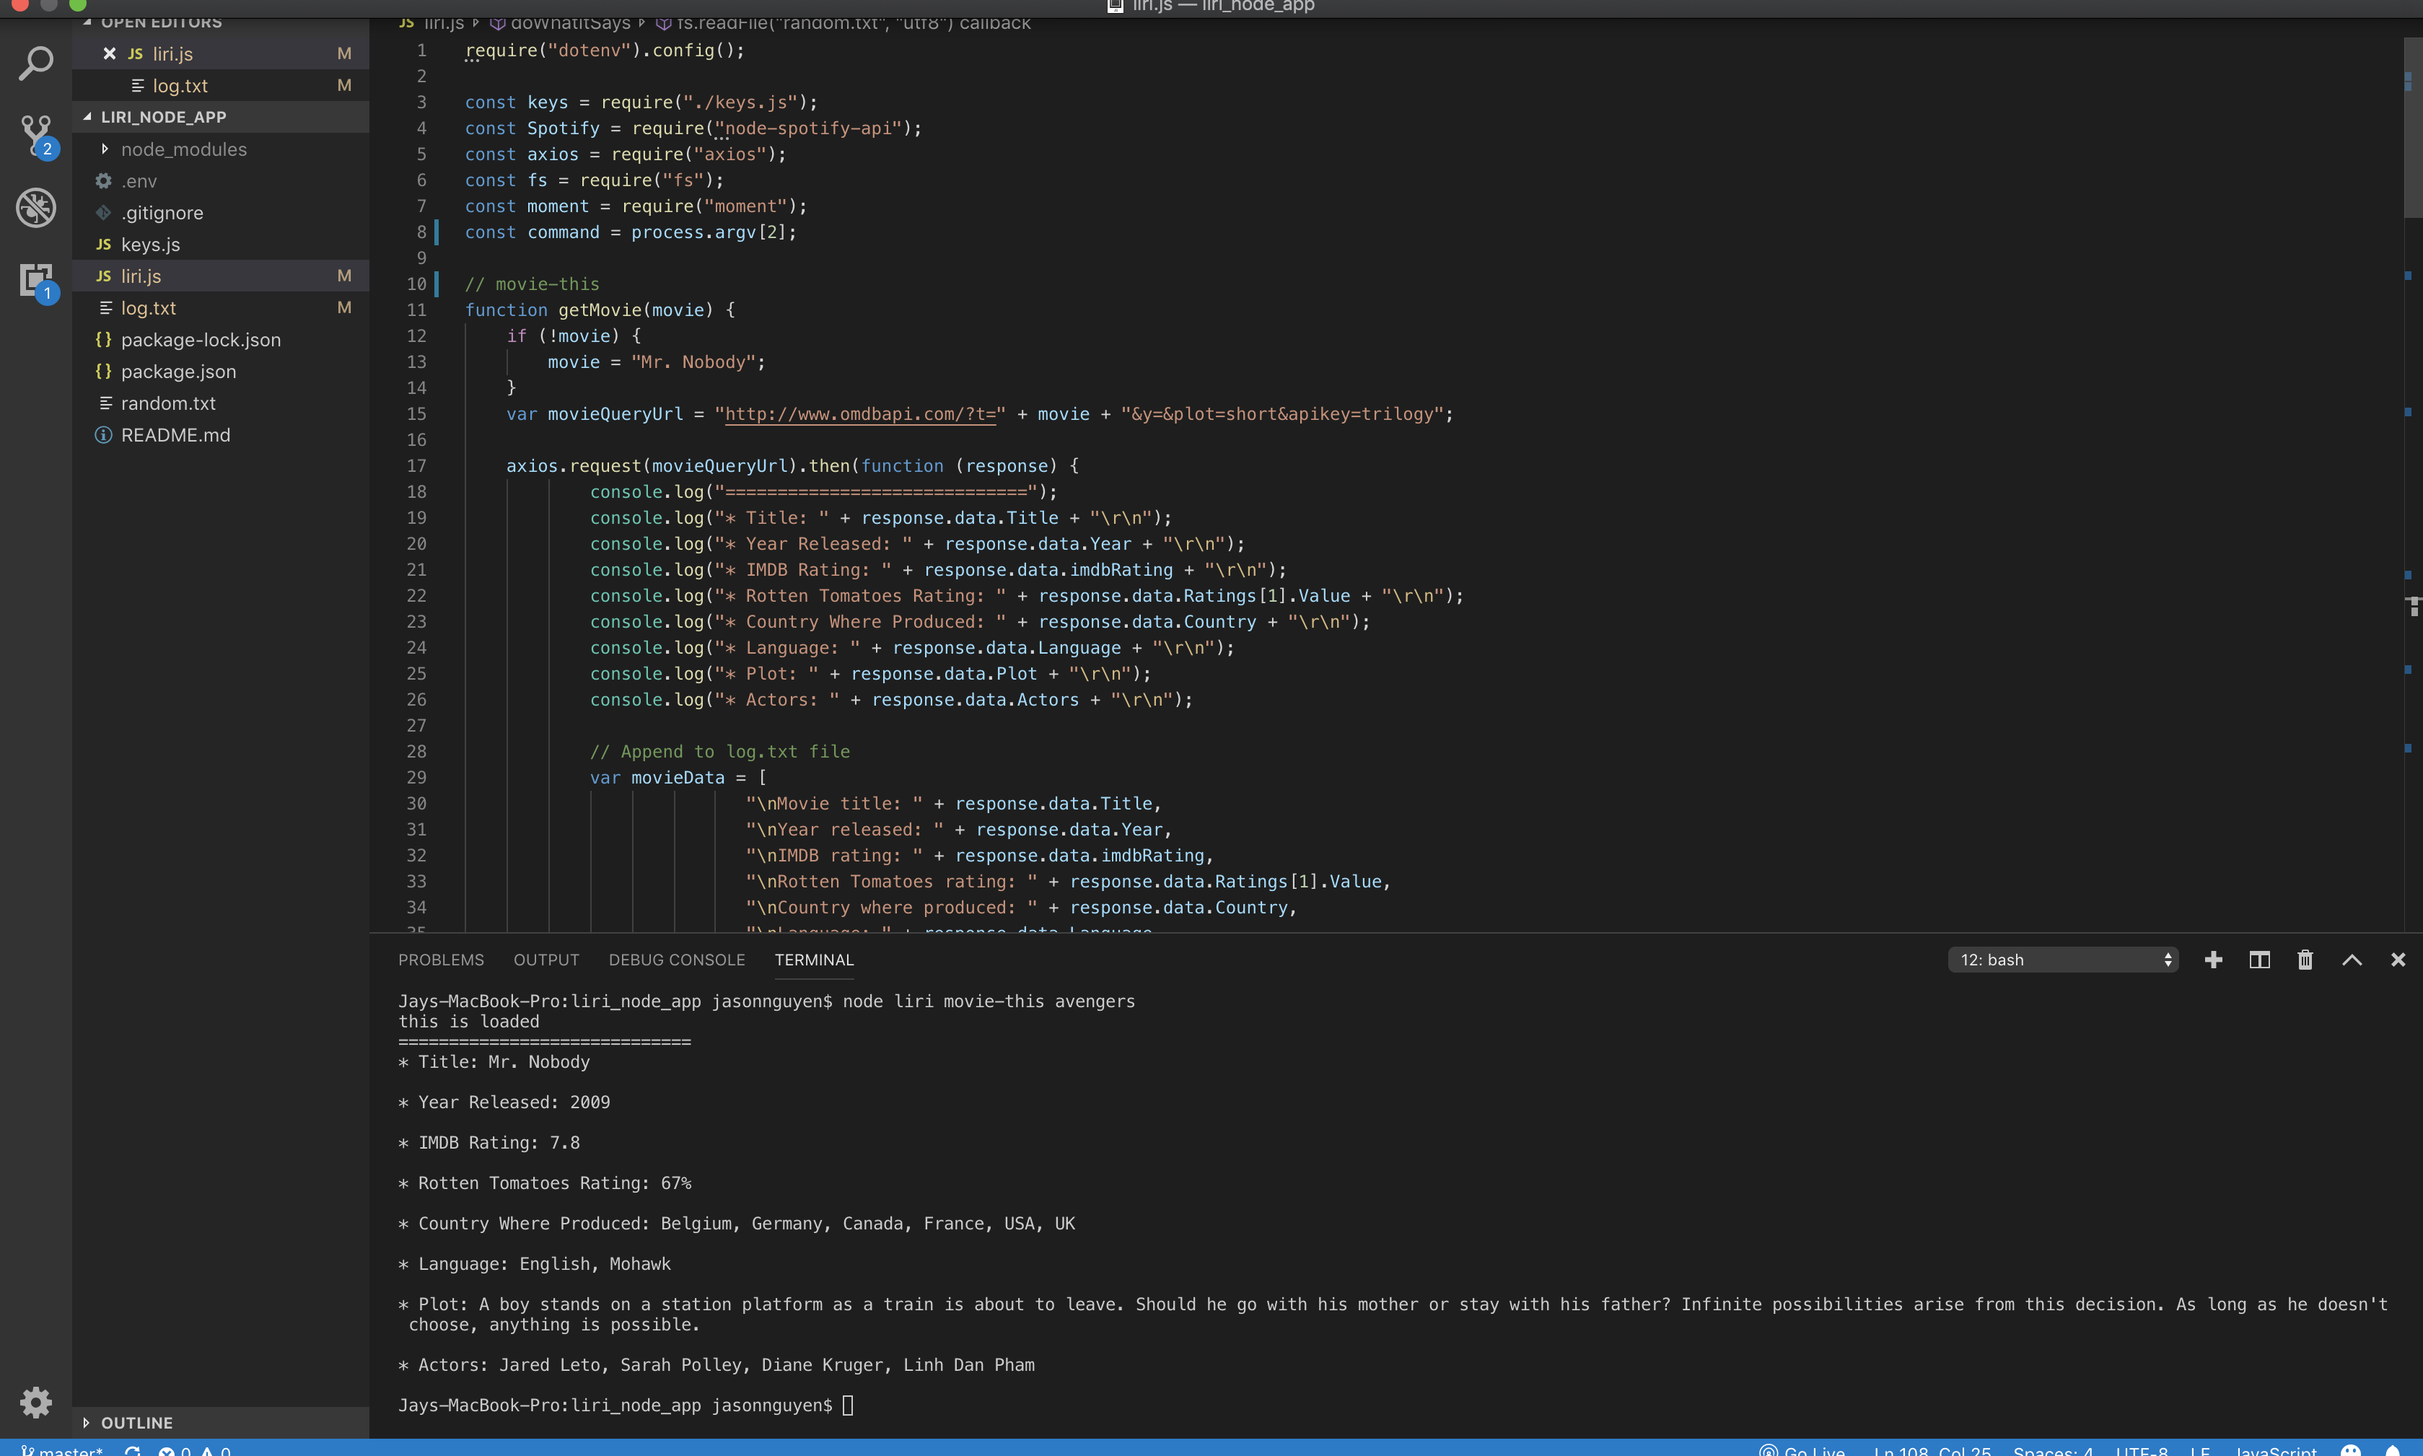
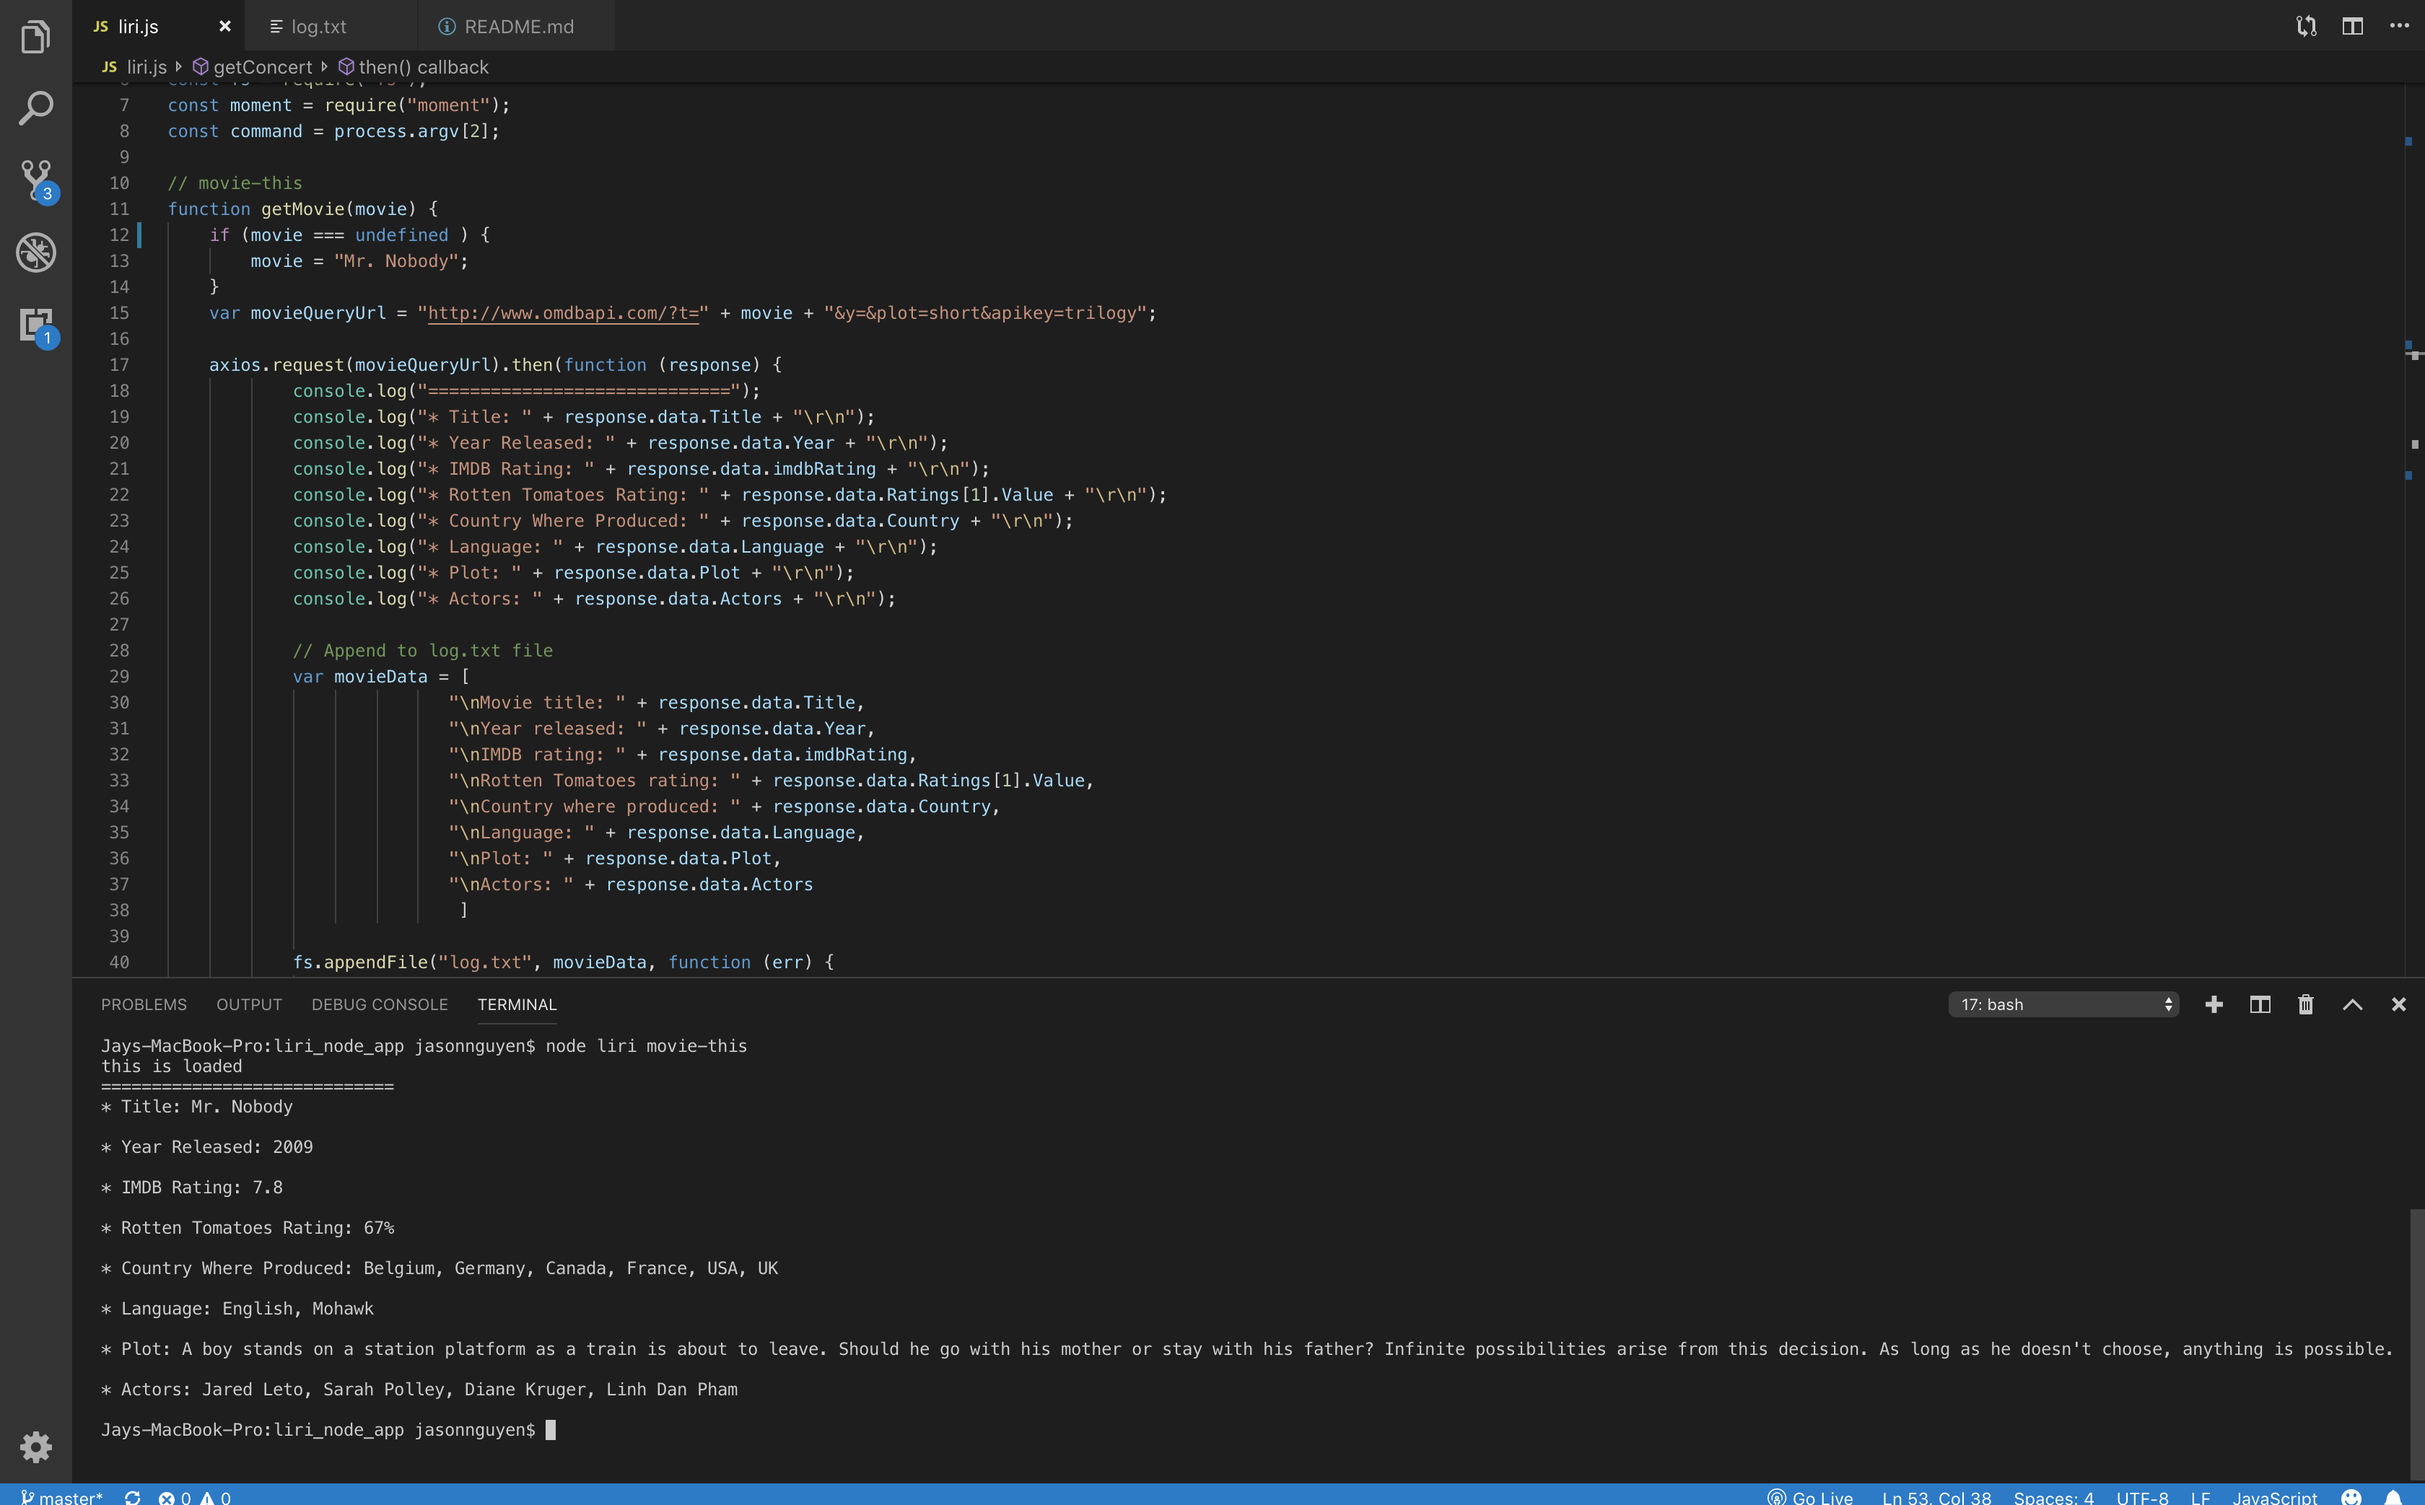
updated read me

diff --git a/liri.js b/liri.js
@@ -9,7 +9,7 @@ const command = process.argv[2];
 
 // movie-this 
 function getMovie(movie) {
-    if (!movie) {
+    if (movie === undefined ) {
         movie = "Mr. Nobody";
     }
     var movieQueryUrl = "http://www.omdbapi.com/?t=" + movie + "&y=&plot=short&apikey=trilogy";
@@ -48,6 +48,7 @@ function getConcert(artist) {
 
             var bandQueryURL = "https://rest.bandsintown.com/artists/" + artist + "/events?app_id=codingbootcamp"
 
+            
             axios.get(bandQueryURL).then(
                 function (response) {
                     console.log("=============================");
@@ -72,7 +73,7 @@ function getConcert(artist) {
 //spotify-this-song 
 function getSong(songName) {
     var spotify = new Spotify(keys.spotify);
-    if (!songName) {
+    if (songName === undefined ) {
         songName = "The Sign";
     };
 

diff --git a/README.md b/README.md
@@ -10,6 +10,9 @@
  * Venue location
 
  * Date of the Event (use moment to format this as "MM/DD/YYYY")
+
+<img src="images/concert-this.png">
+
  * ===============================================
   
  * spotify-this-song
@@ -22,6 +25,9 @@ node liri.js spotify-this-song '<song name here>'
  * A preview link of the song from Spotify
 
  * The album that the song is from
+
+<img src="images/spotify.png">
+
  *  * ===============================================
 
 
@@ -47,3 +53,5 @@ node liri.js spotify-this-song '<song name here>'
  * Using the fs Node package, LIRI will take the text inside of random.txt and then use it to call one of LIRI's commands.
 
  * It should run spotify-this-song for "I Want it That Way," as follows the text in random.txt
+
+<img src="images/do.png">
